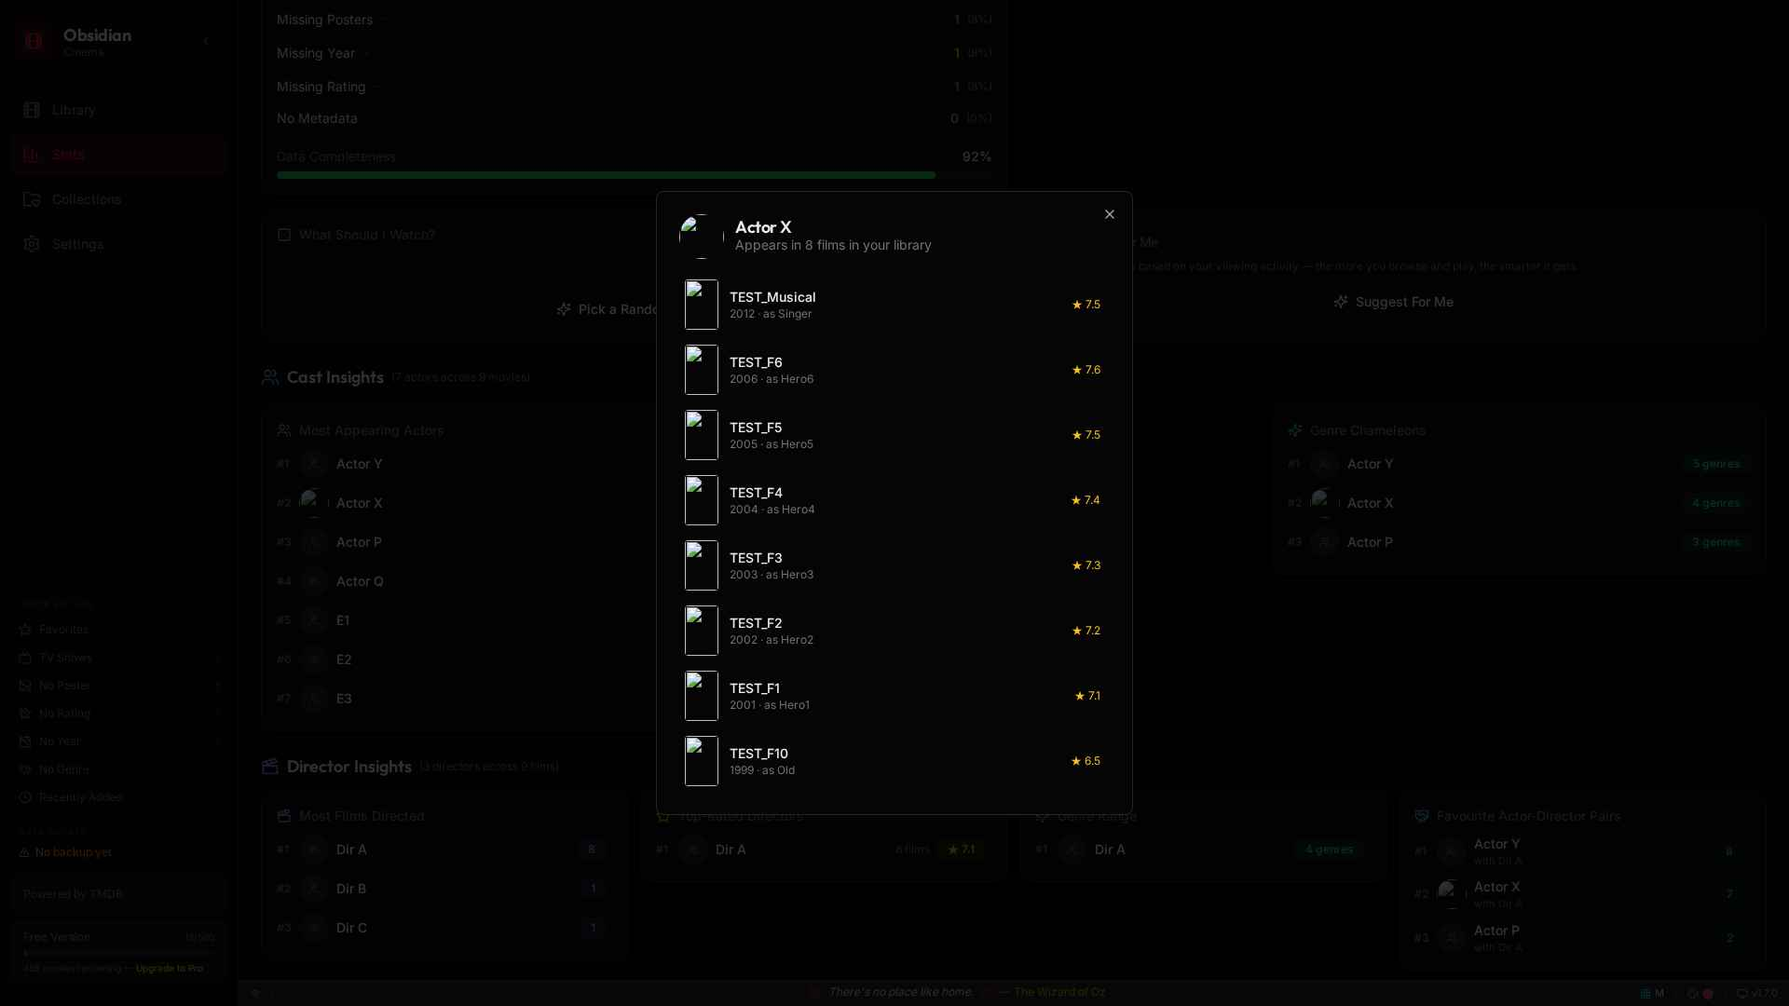
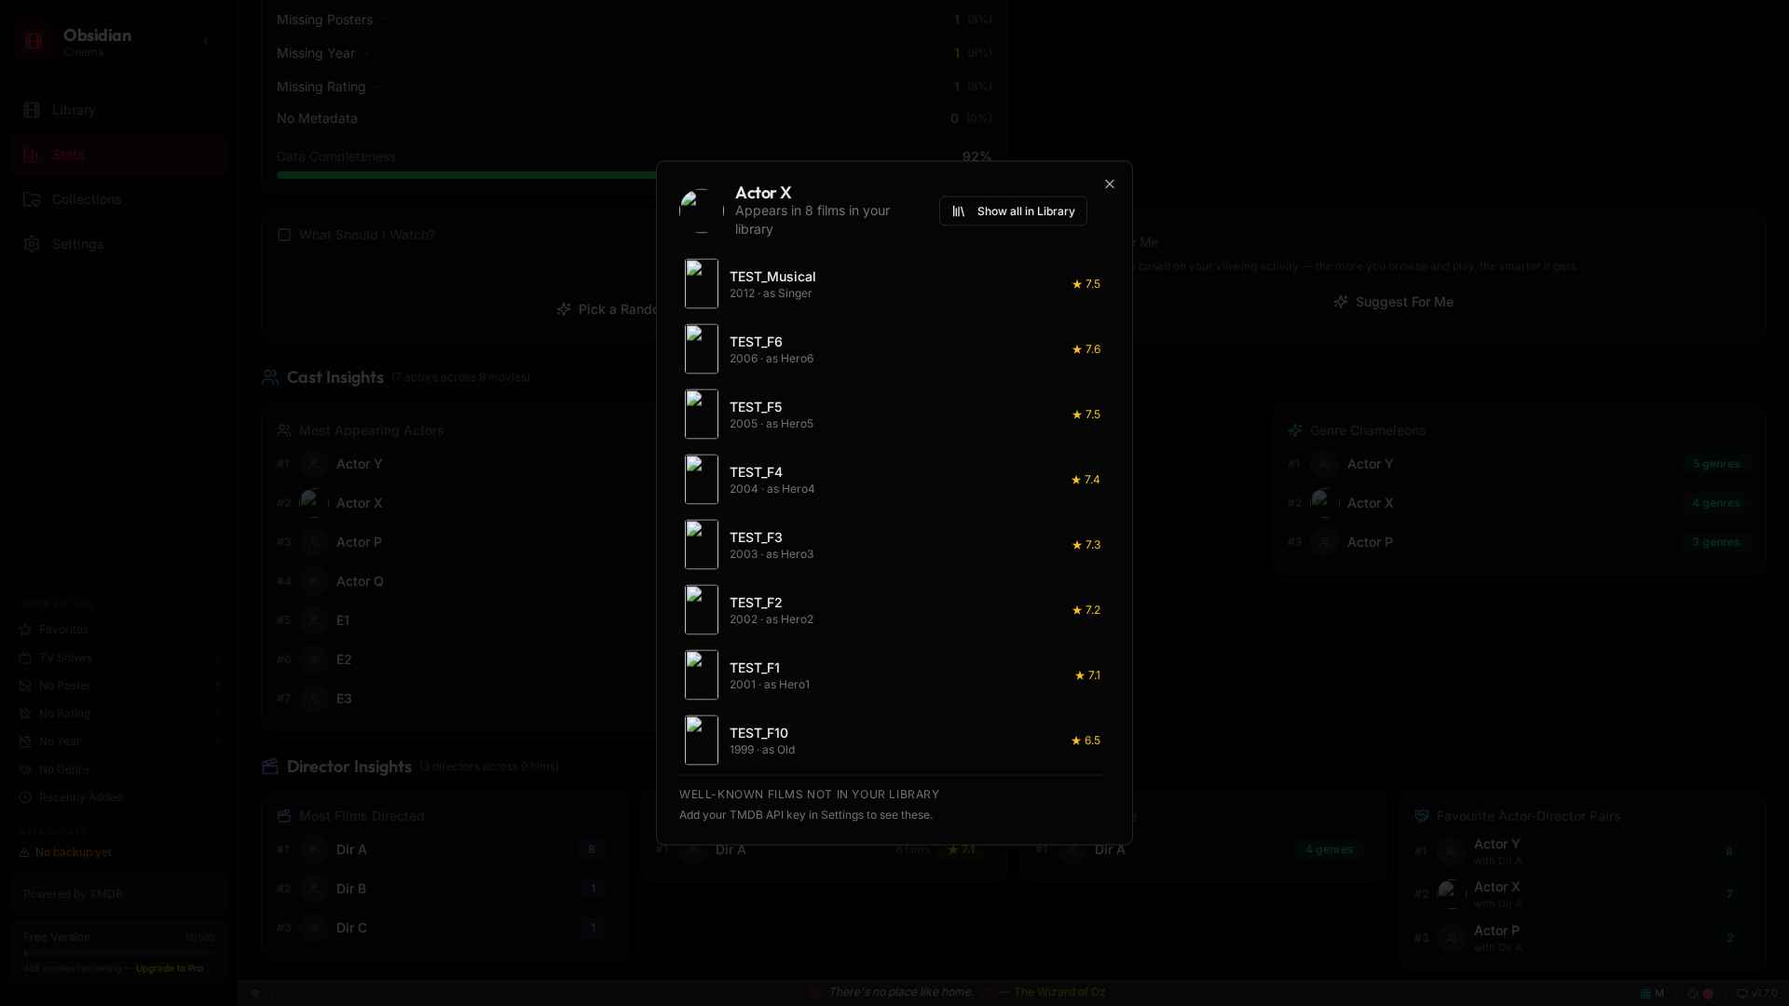
## Merged Genres, Library Person Filter and Missing Films (still v1.7.0) All three are done, and every check passed in the browser test version of the app (TMDB lookups were simulated there). I haven't tried any of this in the installed app.
- **Genres merged:** the combined TV genres now count as their first movie genre:
  - "Action & Adventure" becomes Action
  - "Sci-Fi & Fantasy" and "Sci-Fi" become Science Fiction
  - "War & Politics" becomes War
  - "Kids" becomes Family

  Your existing library is cleaned up the next time the Library or Stats page opens, and new TMDB details come in already merged. The genre filter and the Stats genre chart no longer show duplicates.
- **Show all in Library:** a new button in the actor, director or pair pop-up takes you to the Library showing only their films. A chip such as "Actor X · 8 films" with **Show all** clears it.
- **Films not in your library:** actor and director pop-ups now list up to 8 of their most popular films that you don't own, with poster, year, role and rating. Clicking one opens its TMDB page. Documentaries, unreleased films and "Himself" appearances are left out. It needs your TMDB key in Settings.

**Things to know:**
- A film you own but that was never matched to TMDB can still show up in the "not in your library" list.
- Genres you type in by hand (e.g. "Action & Adventure") are merged the next time the library loads, not right away.
- The film count in the Library header still shows your whole library while a person filter is on.

As before, your installed app gets these only after you build and publish a desktop release.

Next Action Items:
[…]

diff --git a/frontend/src/components/FilmographyDialog.jsx b/frontend/src/components/FilmographyDialog.jsx
@@ -86,12 +86,12 @@ export const FilmographyDialog = ({ person, movies, onClose }) => {
               <DialogTitle className="truncate" data-testid="filmography-name">{title}</DialogTitle>
               <DialogDescription data-testid="filmography-count">{label} {films.length} {films.length === 1 ? 'film' : 'films'} in your library</DialogDescription>
             </div>
-            {films.length > 0 && (
-              <Button size="sm" variant="outline" className="h-8 text-xs shrink-0 mr-6" onClick={showInLibrary} data-testid="filmography-show-library">
-                <Library className="w-3.5 h-3.5 mr-1" /> Show all in Library
-              </Button>
-            )}
           </div>
+          {films.length > 0 && (
+            <Button size="sm" variant="outline" className="h-8 text-xs self-start mt-2" onClick={showInLibrary} data-testid="filmography-show-library">
+              <Library className="w-3.5 h-3.5 mr-1" /> Show all in Library
+            </Button>
+          )}
         </DialogHeader>
         <div className="max-h-[60vh] overflow-y-auto space-y-1 pr-1" data-testid="filmography-list">
           {films.map(({ movie, character }, i) => (

diff --git a/frontend/src/pages/LocalLibraryPage.jsx b/frontend/src/pages/LocalLibraryPage.jsx
@@ -1894,7 +1894,7 @@ export default function LocalLibraryPage() {
           <PartsPlayDialog movie={partsMovie} onClose={() => setPartsMovie(null)} onPlayPart={playPart} />
           <MergePickerDialog movie={mergeTarget} movies={movies} onClose={() => setMergeTarget(null)} onMerge={mergeManual} />
           {personParam && (
-            <div className="flex items-center gap-2 mb-3 text-sm" data-testid="person-filter-chip">
+            <div className="flex items-center gap-2 text-sm" data-testid="person-filter-chip">
               <span className="px-2.5 py-1 rounded-full bg-primary/15 text-primary">
                 {personRole === 'pair' ? personParam + ' & ' + personDirector : personParam} · {personIds ? personIds.size : 0} {personIds && personIds.size === 1 ? 'film' : 'films'}
               </span>

diff --git a/tests/test_iter42_genres_person.py b/tests/test_iter42_genres_person.py
@@ -1,0 +1,274 @@
+# Iteration 42: genre normalization (library/stats), Show all in Library person filter, Missing filmography (TMDB person credits)
+# Run via browser_automation: g={'page':page}; exec(open('/app/tests/test_iter42_genres_person.py').read(), g); await g['run_genres']() / run_person_filter() / run_missing() / run_missing_nokey()
+import json, re, asyncio
+g41 = {'page': page}
+exec(open('/app/tests/test_iter41_filmography.py').read(), g41)
+card, A, open_ctx, chk, lst, URL, film_lib, pick, close, find_row = (g41[k] for k in ('card', 'A', 'open_ctx', 'chk', 'lst', 'URL', 'film_lib', 'pick', 'close', 'find_row'))
+
+
+# ---- Genre normalization ----
+def genre_lib():
+    return [
+        card(701, title="TEST_G1", genres=["Action & Adventure", "Action", "Drama"]),
+        card(702, title="TEST_G2", genres=[{"id": 10765, "name": "Sci-Fi & Fantasy"}, {"id": 878, "name": "Science Fiction"}]),
+        card(703, title="TEST_G3", genres=["War & Politics"]),
+        card(704, title="TEST_G4", genres=["Kids", "Family"]),
+        card(705, title="TEST_G5", genres=["Sci-Fi"]),
+        card(706, title="TEST_G6", genres=["Action"]),
+        card(707, title="TEST_G7", genres=["War", "Comedy"]),
+        card(708, title="TEST_G8", genres=[]),
+    ]
+
+
+async def genre_items(p):
+    await p.locator('[data-testid="genre-dropdown"]').click()
+    await p.wait_for_timeout(400)
+    items = await p.evaluate("() => Array.from(document.querySelectorAll('[role=menuitem]')).map(e => e.innerText.split('\\n').map(x=>x.trim()).filter(Boolean).join(' | '))")
+    return items
+
+
+async def run_genres():
+    ctx, p, mock, errs = await open_ctx(genre_lib(), key=False, auto="off")
+    try:
+        await p.wait_for_timeout(1500)
+        items = await genre_items(p)
+        print("genre items:", items)
+        names = [i.split(" | ")[0] for i in items if i != "All Genres"]
+        chk("no combined genres in dropdown", not any(x in names for x in ["Action & Adventure", "Sci-Fi & Fantasy", "War & Politics", "Kids", "Sci-Fi"]), names)
+        chk("no duplicates", len(names) == len(set(names)), names)
+        exp = {"Action": "2", "Science Fiction": "2", "War": "2", "Family": "1", "Drama": "1", "Comedy": "1"}
+        got = {i.split(" | ")[0]: i.split(" | ")[-1] for i in items if " | " in i}
+        chk("expected counts", got == exp, got)
+        await p.screenshot(path=".screenshots/iter42_genre_dropdown.jpg", quality=40, full_page=False)
+        await p.get_by_role("menuitem").filter(has_text=re.compile(r"^Action")).first.click()
+        await p.wait_for_timeout(800)
+        titles = await p.evaluate("() => Array.from(document.querySelectorAll('h3.font-medium.truncate')).map(e => e.innerText)")
+        chk("Action filter shows G1+G6", sorted(titles) == ["TEST_G1", "TEST_G6"], titles)
+        await p.wait_for_timeout(1200)
+        saved = await p.evaluate("() => { const s = sessionStorage.getItem('fakeLibFile') || localStorage.getItem('obsidian_cinema_local_movies'); return JSON.parse(s).map(m => [m.title, m.genres]); }")
+        print("persisted:", saved)
+        sd = dict((t, g) for t, g in saved)
+        chk("persisted normalized", sd.get("TEST_G1") == ["Action", "Drama"] and sd.get("TEST_G2") == ["Science Fiction"] and sd.get("TEST_G3") == ["War"]
+            and sd.get("TEST_G4") == ["Family"] and sd.get("TEST_G5") == ["Science Fiction"] and sd.get("TEST_G7") == ["War", "Comedy"], sd)
+        # Stats
+        await p.goto(URL + "stats"); await p.wait_for_timeout(2000)
+        txt = await p.evaluate("() => { const h = Array.from(document.querySelectorAll('*')).find(e => e.childNodes.length && e.innerText && e.innerText.startsWith('Genre Totals')); return h ? h.closest('.rounded-lg, [class*=card]')?.innerText || h.innerText : ''; }")
+        print("stats genre totals:", txt.replace("\n", " | ")[:400])
+        chk("stats has no combined genres", "&" not in txt and "Kids" not in txt and "Sci-Fi" not in txt, txt[:300])
+        chk("stats 6 genres badge", "6 genres" in txt, txt[:80])
+        chk("no page errors", not errs, errs)
+    finally:
+        await ctx.close()
+
+
+async def run_genres_stats_direct():
+    # Stats page opened first (no library load) must normalize too
+    ctx, p, mock, errs = await open_ctx(genre_lib(), key=False, auto="off", url=URL + "stats")
+    try:
+        await p.wait_for_timeout(1500)
+        txt = await p.evaluate("() => document.body.innerText")
+        i = txt.find("Genre Totals")
+        seg = txt[i:i + 300]
+        print("stats direct:", seg.replace("\n", " | "))
+        chk("stats direct: no combined", "&" not in seg and "Kids" not in seg and "Sci-Fi" not in seg, seg)
+        chk("stats direct 6 genres", "6 genres" in seg, seg[:60])
+    finally:
+        await ctx.close()
+
+
+# ---- Person filter ----
+async def chip(p):
+    c = p.locator('[data-testid="person-filter-chip"]')
+    return (await c.inner_text()).split("\n")[0].strip() if await c.count() else None
+
+
+async def titles(p):
+    return await p.evaluate("() => Array.from(document.querySelectorAll('h3.font-medium.truncate')).map(e => e.innerText)")
+
+
+async def run_person_filter():
+    ctx, p, mock, errs = await open_ctx(film_lib(), key=False, auto="off", url=URL + "stats")
+    try:
+        await p.wait_for_timeout(1500)
+        all_n = None
+        cases = [("top-actor-", "Actor X", "actor", 8), ("director-most-", "Dir A", "director", 8), ("director-most-", "Dir B", "director", 1)]
+        for pf, name, role, n in cases:
+            tid, row = await find_row(p, pf, name)
+            d = await pick(p, tid)
+            btn = p.locator('[data-testid="filmography-show-library"]')
+            chk(f"{name}: show-library button visible", await btn.count() == 1)
+            await btn.click(); await p.wait_for_timeout(1500)
+            print(name, "url:", p.url)
+            chk(f"{name}: url has person & role", f"role={role}" in p.url and "person=" in p.url, p.url)
+            c = await chip(p); t = await titles(p)
+            print(name, "chip:", c, "titles:", t)
+            chk(f"{name}: chip text", c == f"{name} · {n} {'film' if n == 1 else 'films'}", c)
+            chk(f"{name}: grid count == {n}", len(t) == n, t)
+            if name == "Actor X":
+                chk("Actor X grid excludes F7/Concert/TV/Doc", not any(x in t for x in ["TEST_F7", "TEST_Concert", "TEST_TVZ", "TEST_Doc"]), t)
+                await p.screenshot(path=".screenshots/iter42_person_chip.jpg", quality=40, full_page=False)
+                # combine with search
+                s = p.locator('input[placeholder*="Search" i]').first
+                if await s.count():
+                    await s.fill("TEST_F1"); await p.wait_for_timeout(800)
+                    t2 = await titles(p)
+                    chk("search combines with person filter", sorted(t2) == ["TEST_F1", "TEST_F10"], t2)
+                    await s.fill(""); await p.wait_for_timeout(600)
+                # combine with genre
+                items = await p.locator('[data-testid="genre-dropdown"]').count()
+                if items:
+                    await p.locator('[data-testid="genre-dropdown"]').click(); await p.wait_for_timeout(300)
+                    await p.get_by_role("menuitem").filter(has_text=re.compile(r"^Action")).first.click(); await p.wait_for_timeout(700)
+                    t3 = await titles(p)
+                    chk("genre Action combines (F2,F4,F6)", sorted(t3) == ["TEST_F2", "TEST_F4", "TEST_F6"], t3)
+                    await p.locator('[data-testid="genre-dropdown"]').click(); await p.wait_for_timeout(300)
+                    await p.get_by_role("menuitem", name="All Genres").click(); await p.wait_for_timeout(500)
+            await p.locator('[data-testid="person-filter-clear"]').click(); await p.wait_for_timeout(800)
+            t = await titles(p)
+            chk(f"{name}: clear restores all", await chip(p) is None and len(t) > n and "person=" not in p.url, (len(t), p.url))
+            all_n = len(t)
+            await p.goto(URL + "stats"); await p.wait_for_timeout(1500)
+        # pair
+        pairs = await lst(p, "director-pairs-")
+        print("pairs:", pairs)
+        if pairs:
+            d = await pick(p, "director-pairs-0")
+            n = int(d["count"].split()[1])
+            await p.locator('[data-testid="filmography-show-library"]').click(); await p.wait_for_timeout(1500)
+            print("pair url:", p.url)
+            c = await chip(p); t = await titles(p)
+            print("pair chip:", c, t)
+            chk("pair url role=pair & director", "role=pair" in p.url and "director=" in p.url, p.url)
+            chk("pair grid count == dialog", len(t) == n and c and c.endswith(f"{n} films" if n != 1 else "1 film") and " & " in c, (c, len(t), n))
+        # direct URL with unknown person
+        await p.goto(URL + "?person=Nobody%20Here&role=actor"); await p.wait_for_timeout(1500)
+        c = await chip(p); t = await titles(p)
+        print("unknown:", c, t)
+        chk("unknown person -> 0 films chip, empty grid", c == "Nobody Here · 0 films" and len(t) == 0, (c, t))
+        await p.screenshot(path=".screenshots/iter42_unknown_person.jpg", quality=40, full_page=False)
+        chk("no page errors", not errs, errs)
+    finally:
+        await ctx.close()
+
+
+# ---- Missing films ----
+class PersonMock:
+    def __init__(self):
+        self.calls = []
+        self.opened = []
+
+    async def handle(self, route):
+        url = route.request.url
+        hdr = {"Access-Control-Allow-Origin": "*"}
+        self.calls.append(url)
+        body = {"results": []}
+        if "/search/person" in url:
+            q = re.search(r"query=([^&]+)", url).group(1).replace("+", " ").replace("%20", " ")
+            await asyncio.sleep(0.8)
+            if q == "Actor X":
+                body = {"results": [
+                    {"id": 11, "name": "Actor X", "known_for_department": "Directing"},
+                    {"id": 12, "name": "actor x", "known_for_department": "Acting"},
+                    {"id": 13, "name": "Actor Xavier", "known_for_department": "Acting"}]}
+            elif q == "Actor Y":
+                body = {"results": [{"id": 21, "name": "Actor Y", "known_for_department": "Acting"}]}
+            elif q == "Dir A":
+                body = {"results": [{"id": 31, "name": "Dir A", "known_for_department": "Acting"}, {"id": 32, "name": "Dir A", "known_for_department": "Directing"}]}
+        m = re.search(r"/person/(\d+)/movie_credits", url)
+        if m:
+            pid = int(m.group(1))
+            if pid == 12:
+                cast = [{"id": 900 + i, "title": f"Miss{i}", "release_date": f"{1990 + i}-05-01", "vote_count": i * 100, "vote_average": 6 + i * 0.1,
+                         "character": f"Role{i}", "poster_path": "/p.jpg" if i % 2 else None, "genre_ids": [18]} for i in range(1, 11)]
+                cast += [
+                    {"id": 601, "title": "Owned F1", "release_date": "2001-01-01", "vote_count": 99999, "character": "Hero1"},
+                    {"id": 950, "title": "DocFilm", "release_date": "2005-01-01", "vote_count": 50000, "genre_ids": [99, 18]},
+                    {"id": 951, "title": "FutureFilm", "release_date": "2099-01-01", "vote_count": 40000},
+                    {"id": 952, "title": "NoDate", "release_date": "", "vote_count": 30000},
+                    {"id": 953, "title": "SelfCameo", "release_date": "2010-01-01", "vote_count": 20000, "character": "Himself"},
+                    {"id": 910, "title": "Miss10", "release_date": "2000-05-01", "vote_count": 1000, "character": "Dup"},
+                ]
+                body = {"cast": cast, "crew": []}
+            elif pid == 21:
+                body = {"cast": [{"id": 601, "title": "Owned", "release_date": "2001-01-01", "vote_count": 10, "character": "c"}], "crew": []}
+            elif pid == 32:
+                body = {"cast": [{"id": 970, "title": "ActedOnly", "release_date": "2000-01-01", "vote_count": 9000, "character": "x"}],
+                        "crew": [{"id": 980, "title": "Directed1", "release_date": "2003-01-01", "vote_count": 500, "job": "Director"},
+                                 {"id": 981, "title": "Produced", "release_date": "2004-01-01", "vote_count": 9000, "job": "Producer"},
+                                 {"id": 982, "title": "Directed2", "release_date": "2006-01-01", "vote_count": 800, "job": "Director"},
+                                 {"id": 603, "title": "OwnedDir", "release_date": "2003-01-01", "vote_count": 9999, "job": "Director"}]}
+            elif pid == 31:
+                body = {"cast": [], "crew": [{"id": 990, "title": "WRONG_PERSON", "release_date": "2000-01-01", "vote_count": 1, "job": "Director"}]}
+        await route.fulfill(status=200, content_type="application/json", body=json.dumps(body), headers=hdr)
+
+
+async def run_missing():
+    mock = PersonMock()
+    ctx, p, _, errs = await open_ctx(film_lib(), key=True, auto="off", url=URL + "stats", mock=mock)
+    await ctx.add_init_script("window.__opened=[]; const _w = () => { if (window.electronAPI) { const o = window.electronAPI; window.electronAPI = new Proxy(o, {get(t,k){ if(k==='openExternal') return (u)=>{window.__opened.push(u); return Promise.resolve(true);}; return t[k];}}); } }; _w();")
+    try:
+        await p.reload(); await p.wait_for_timeout(2000)
+        tid, row = await find_row(p, "top-actor-", "Actor X")
+        await p.locator(f'[data-testid="{tid}"]').click()
+        await p.wait_for_timeout(300)
+        chk("missing section present", await p.locator('[data-testid="filmography-missing"]').count() == 1)
+        chk("loading state shown", await p.locator('[data-testid="filmography-missing-loading"]').count() == 1)
+        await p.wait_for_timeout(2000)
+        rows = await lst(p, "filmography-missing-")
+        rows = [r for r in rows if r and not r.startswith("Well-known")]
+        print("missing Actor X:", rows)
+        tl = [r.split(" | ")[0] for r in rows]
+        chk("8 rows, vote_count desc", tl == ["Miss10", "Miss9", "Miss8", "Miss7", "Miss6", "Miss5", "Miss4", "Miss3"], tl)
+        chk("row format year · as char · rating", rows and rows[0].startswith("Miss10 | 2000 · as Role10") and "★ 7.0" in rows[0], rows[:1])
+        chk("excludes owned/doc/future/nodate/himself", not any(x in tl for x in ["Owned F1", "DocFilm", "FutureFilm", "NoDate", "SelfCameo"]), tl)
+        chk("used Acting person id 12", any("/person/12/movie_credits" in u for u in mock.calls), [u for u in mock.calls if "person" in u])
+        await p.screenshot(path=".screenshots/iter42_missing.jpg", quality=40, full_page=False)
+        await p.locator('[data-testid="filmography-missing-0"]').click(); await p.wait_for_timeout(500)
+        opened = await p.evaluate("() => window.__opened")
+        chk("click opens TMDB url via openExternal", opened == ["https://www.themoviedb.org/movie/910"], opened)
+        await close(p)
+        # Actor Y -> all owned
+        tid, row = await find_row(p, "top-actor-", "Actor Y")
+        if tid:
+            await p.locator(f'[data-testid="{tid}"]').click(); await p.wait_for_timeout(2500)
+            chk("Actor Y empty message", await p.locator('[data-testid="filmography-missing-empty"]').count() == 1)
+            await close(p)
+        # Director
+        tid, row = await find_row(p, "director-most-", "Dir A")
+        await p.locator(f'[data-testid="{tid}"]').click(); await p.wait_for_timeout(2500)
+        rows = [r for r in await lst(p, "filmography-missing-") if r and not r.startswith("Well-known")]
+        print("missing Dir A:", rows)
+        tl = [r.split(" | ")[0] for r in rows]
+        chk("director: only Director jobs, owned excluded, sorted", tl == ["Directed2", "Directed1"], tl)
+        chk("director rows have no 'as'", not any(" as " in r for r in rows), rows)
+        await close(p)
+        # Pair -> no missing section
+        pairs = await lst(p, "director-pairs-")
+        if pairs:
+            await p.locator('[data-testid="director-pairs-0"]').click(); await p.wait_for_timeout(800)
+            chk("pair has no missing section", await p.locator('[data-testid="filmography-missing"]').count() == 0)
+            await close(p)
+        # Person not found on TMDB (Actor P -> empty results)
+        tid, row = await find_row(p, "top-actor-", "Actor P")
+        if tid:
+            await p.locator(f'[data-testid="{tid}"]').click(); await p.wait_for_timeout(2500)
+            chk("unknown TMDB person -> empty msg", await p.locator('[data-testid="filmography-missing-empty"]').count() == 1)
+            await close(p)
+        chk("no page errors", not errs, errs)
+    finally:
+        await ctx.close()
+
+
+async def run_missing_nokey():
+    mock = PersonMock()
+    ctx, p, _, errs = await open_ctx(film_lib(), key=False, auto="off", url=URL + "stats", mock=mock)
+    try:
+        await p.wait_for_timeout(1000)
+        tid, row = await find_row(p, "top-actor-", "Actor X")
+        await p.locator(f'[data-testid="{tid}"]').click(); await p.wait_for_timeout(800)
+        txt = await p.locator('[data-testid="filmography-missing"]').inner_text()
+        print("nokey:", txt)
+        chk("no key hint", "TMDB API key" in txt, txt)
+        chk("no TMDB person calls without key", not any("person" in u for u in mock.calls), mock.calls)
+    finally:
+        await ctx.close()

diff --git a/memory/PRD.md b/memory/PRD.md
@@ -113,3 +113,4 @@ Build "Obsidian Cinema"—an installable Windows desktop app (Electron) that sca
 - (v1.7.0, same build) Manage Directories: 'Folders from Add Files' section lists folders typed via Add Files (not inside a scanned directory) with type dropdown, title count and Remove (removes only titles directly in that folder; files on disk untouched). Add Files no longer changes the type of scanned directories or folders inside them. Tested iteration_38 + re-run (all pass).
 - (v1.7.0, same build) AKA titles: fetchMovieDetails adds alternative_titles -> movie.aka (English US/GB/CA/AU/IE/NZ aliases first, original title kept, max 6); shown as 'aka …' on cards (medium/large) and 'Also known as' in the detail window; searchable. Background auto-fill re-fetches older films without aka. Cast Insights now film-only (no TV/series, documentaries, concert films with mostly Himself credits; no Himself/Self credits or non-Acting department people). New Director Insights (lib/peopleStats.js, components/DirectorInsights.jsx): most films, top-rated (min 5), genre range, actor-director pairs. Tested iteration_39 (41/41) + re-run.
 - (v1.7.0, same build) Filmographies: clicking an actor (Cast Insights), director or actor-director pair (Director Insights) opens FilmographyDialog on the Stats page listing their films (film-only rules, newest first, 'as character', rating); clicking a film opens it in the Library via ?open=<id>. Pair count = top-5 billed rule. Tested iteration_40 + re-run (all pass).
+- (v1.7.0, same build) Genre de-dup: TMDB TV combo genres mapped to the first movie genre (Action & Adventure->Action, Sci-Fi & Fantasy->Science Fiction, War & Politics->War, Kids->Family) on fetch and on library/stats load (tmdbMatcher normalizeGenres). Filmography pop-up: 'Show all in Library' filters the grid via ?person=&role=[&director=] with a clearable chip; 'Well-known films not in your library' lists up to 8 TMDB films (search/person + movie_credits, most voted first, opens TMDB). Tested iteration_41 (all pass).
